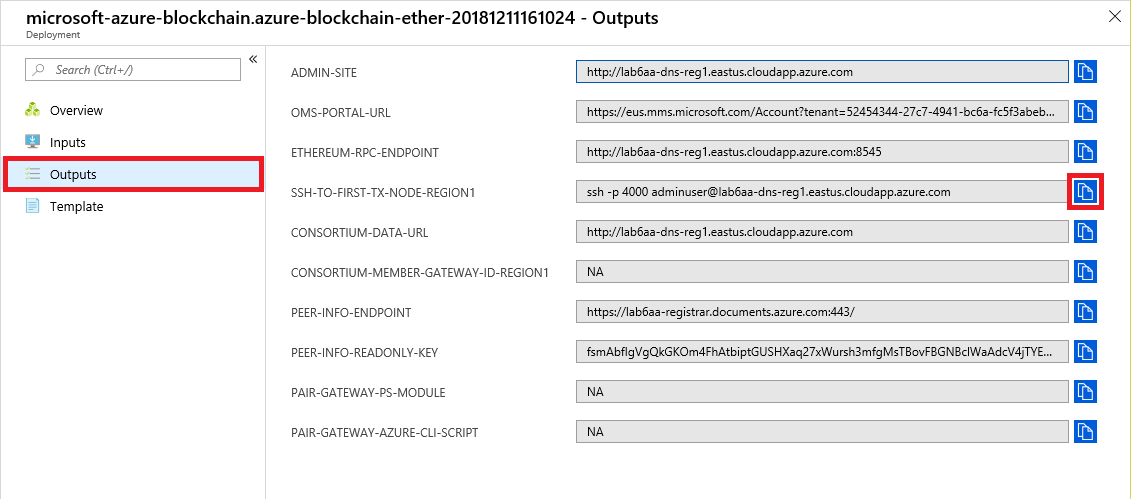
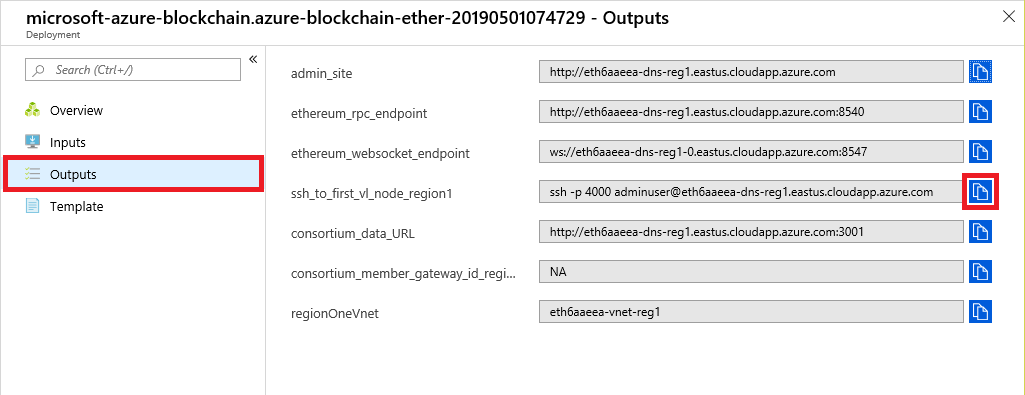
More updates to Rate My Professor

diff --git a/Labs/Azure Services/Blockchain on Azure (Rate My Professor)/Blockchain on Azure.md b/Labs/Azure Services/Blockchain on Azure (Rate My Professor)/Blockchain on Azure.md
@@ -113,25 +113,25 @@ When it created the Ethereum network, Azure also created a *coinbase* account to
 
 Every transaction performed in a blockchain must be "fueled" by an account. This coinbase account will fuel transactions that allow comments and ratings to be recorded in the blockchain. Before the coinbase account can be used, however, it must be unlocked. In this exercise, you will use SSH to connect to the Ethereum network you deployed in the previous exercise and execute a series of commands to unlock the account and retrieve its address.
 
-1. Return to the resource group that you created for the Blockchain network in the Azure portal. Click **Deployments** in the menu on the left, and then click **microsoft-azure-blockchain**.
+1. Return to the resource group that you created for the Blockchain network in the Azure portal. Click **Deployments** in the menu on the left, and then click the resource whose name begins with "microsoft-azure-blockchain."
 
     ![Opening the blockchain](Images/open-blockchain.png)
 
     _Opening the blockchain_
 
-1. Click **Outputs** in the menu on the left, and then click the **Copy** button next to SSH-TO-FIRST-TX-NODE-REGION1 to copy the SSH command to the clipboard.
+1. Click **Outputs** in the menu on the left, and then click the **Copy** button next to "ssh_to_first_vl_node_region1" to copy the SSH command to the clipboard.
 
     ![Copying the SSH command](Images/copy-ssh-command.png)
 
     _Copying the SSH command_
 
-1. Click the **Cloud Shell** button in the toolbar at the top of the portal to open a cloud shell. The Azure cloud shell provides an environment for executing Bash and PowerShell commands without leaving the portal. You can use **Shift+Insert** to paste commands into the cloud shell, and **Ctrl+Insert** to copy text from the cloud shell to the clipboard.
+1. Click the **Cloud Shell** button in the toolbar at the top of the portal to open a cloud shell. The [Azure Cloud Shell](https://azure.microsoft.com/features/cloud-shell/) provides an environment for executing Bash and PowerShell commands without leaving the portal. You can use **Shift+Insert** to paste commands into the cloud shell, and **Ctrl+Insert** to copy text from the cloud shell to the clipboard.
 
-    ![Opening the Azure cloud shell](Images/cloud-shell.png)
+    ![Opening the Azure Cloud Shell](Images/cloud-shell.png)
 
-    _Opening the Azure cloud shell_
+    _Opening the Azure Cloud Shell_
 
-1. Make sure **Bash** is the language selected in the upper-left corner of the cloud shell. Press **Shift+Insert**  to paste the ```ssh``` command that is on the clipboard into the cloud shell. Then press **Enter** to execute the command. If you are prompted with a security warning informing you that the authenticity of the host can't be established and asking if you want to connect anyway, type "yes" and press **Enter**.
+1. If asked to choose a language, choose **Bash**. Then make sure **Bash** is selected in the upper-left corner of the cloud shell. Press **Shift+Insert**  to paste the ```ssh``` command that is on the clipboard into the cloud shell. Then press **Enter** to execute the command. If you are prompted with a security warning informing you that the authenticity of the host can't be established and asking if you want to connect anyway, type "yes" and press **Enter**.
 
 1. When prompted for a password, enter the password you entered in Exercise 1, Step 3.
 
